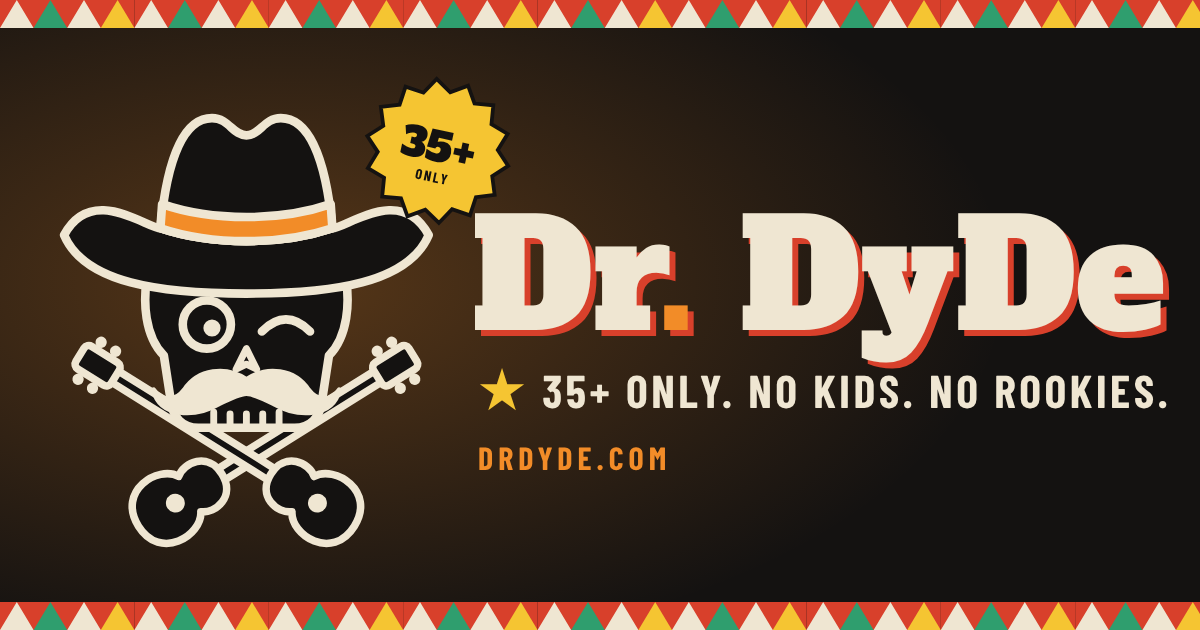
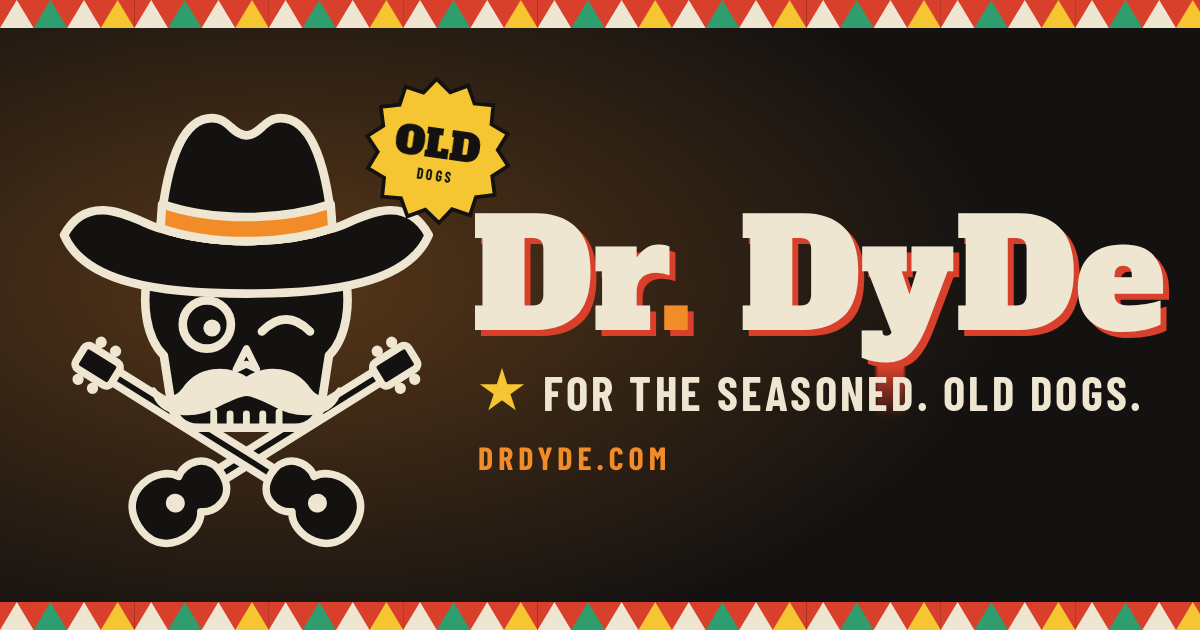
Remove age marks: for the seasoned / old dogs

Changed region(s): [[0.4317, 0.573, 0.9867, 0.6635], [0.3083, 0.181, 0.4008, 0.3016]]

diff --git a/index.html b/index.html
@@ -3,8 +3,8 @@
 <head>
 <meta charset="utf-8">
 <meta name="viewport" content="width=device-width, initial-scale=1, viewport-fit=cover">
-<title>Dr. DyDe — Silent Comedy & Dark Humor, 35+ only</title>
-<meta name="description" content="Dr. DyDe: silent comedy and dark humor for grown-ups. A tough guy in leather, toys and a skeleton roommate. No words. 35+ only. Comedia muda y humor negro.">
+<title>Dr. DyDe — Silent Comedy & Dark Humor for Old Dogs</title>
+<meta name="description" content="Dr. DyDe: silent comedy and dark humor for the seasoned. A tough guy in leather, toys and a skeleton roommate. Old dogs, old heads. Comedia muda y humor negro.">
 <meta name="robots" content="index, follow">
 <link rel="sitemap" type="application/xml" href="/sitemap.xml">
 <meta name="theme-color" content="#141211">
@@ -33,7 +33,7 @@
    "@type": "ProfilePage",
    "@id": "https://drdyde.com/#page",
    "url": "https://drdyde.com/",
-   "name": "Dr. DyDe — Silent Comedy & Dark Humor, 35+ only",
+   "name": "Dr. DyDe — Silent Comedy & Dark Humor for Old Dogs",
    "isPartOf": {
     "@id": "https://drdyde.com/#website"
    },
@@ -51,7 +51,7 @@
     "Dr DyDe",
     "Doc"
    ],
-   "description": "Silent comedy and dark humor for grown-ups: a tough guy in leather, toys and a skeleton roommate. No words.",
+   "description": "Silent comedy and dark humor for the seasoned: a tough guy in leather, toys and a skeleton roommate. No words.",
    "url": "https://drdyde.com/",
    "image": "https://drdyde.com/og.png",
    "knowsAbout": [
@@ -75,7 +75,7 @@
 <meta property="og:type" content="website">
 <meta property="og:site_name" content="Dr. DyDe">
 <meta property="og:url" content="https://drdyde.com/">
-<meta property="og:title" content="Dr. DyDe — Silent comedy & dark humor. 35+ only.">
+<meta property="og:title" content="Dr. DyDe — Silent comedy & dark humor for old dogs.">
 <meta property="og:description" content="A tough guy in leather who sings, plays with toys and makes faces. No words. His roommate is a skeleton.">
 <meta property="og:image" content="https://drdyde.com/og.png">
 <meta property="og:image:width" content="1200">
@@ -84,7 +84,7 @@
 <meta property="og:locale" content="en_US">
 <meta property="og:locale:alternate" content="es_ES">
 <meta name="twitter:card" content="summary_large_image">
-<meta name="twitter:title" content="Dr. DyDe — Silent comedy & dark humor. 35+ only.">
+<meta name="twitter:title" content="Dr. DyDe — Silent comedy & dark humor for old dogs.">
 <meta name="twitter:description" content="A tough guy in leather who sings, plays with toys and makes faces. No words. His roommate is a skeleton.">
 <meta name="twitter:image" content="https://drdyde.com/og.png">
 
@@ -232,11 +232,11 @@
       <svg class="logo" viewBox="0 0 240 290" role="img" aria-label="Dr. DyDe logo: a winking skull in a cowboy hat with a moustache and crossed guitars"><use href="#logo"/></svg>
       <svg class="burst" viewBox="0 0 100 100" aria-hidden="true">
         <polygon fill="#f5c532" stroke="#141211" stroke-width="2.500" points="98.0,50.0 89.0,58.9 93.2,70.8 81.3,74.9 79.9,87.5 67.4,86.0 60.7,96.8 50.0,90.0 39.3,96.8 32.6,86.0 20.1,87.5 18.7,74.9 6.8,70.8 11.0,58.9 2.0,50.0 11.0,41.1 6.8,29.2 18.7,25.1 20.1,12.5 32.6,14.0 39.3,3.2 50.0,10.0 60.7,3.2 67.4,14.0 79.9,12.5 81.3,25.1 93.2,29.2 89.0,41.1"/>
-        <text x="50" y="57" text-anchor="middle" font-size="27" fill="#141211">35+</text>
-        <text x="50" y="71" text-anchor="middle" font-size="9.500" fill="#141211" style="font-family:'Barlow Condensed',Arial,sans-serif;font-weight:700;letter-spacing:.14em" data-i18n="only">ONLY</text>
+        <text x="50" y="57" text-anchor="middle" font-size="27" fill="#141211">OLD</text>
+        <text x="50" y="71" text-anchor="middle" font-size="9.500" fill="#141211" style="font-family:'Barlow Condensed',Arial,sans-serif;font-weight:700;letter-spacing:.14em" data-i18n="only">DOGS</text>
       </svg>
       <h1 class="slab">Dr<span class="dot">.</span> DyDe</h1>
-      <p class="tagline" data-i18n="tagline">35+ only. No kids. No rookies.</p>
+      <p class="tagline" data-i18n="tagline">For the seasoned. Old dogs. Old heads.</p>
     </section>
 
     <nav class="links" aria-label="Channels">
@@ -269,7 +269,7 @@
 
     <section class="about">
       <h2 class="slab" data-i18n="aboutTitle">Who is this guy?</h2>
-      <p data-i18n="about">Silent comedy and dark humor for grown-ups. A tough guy in leather who sings, plays with toys and makes faces. No words. His roommate is a skeleton. Don't ask.</p>
+      <p data-i18n="about">Silent comedy and dark humor for the seasoned. A tough guy in leather who sings, plays with toys and makes faces. No words. His roommate is a skeleton. Don't ask.</p>
       <div class="patches" aria-hidden="true">
         <span class="patch round" style="--p:var(--red)">13</span>
         <span class="patch" style="--p:var(--yellow)" data-i18n="p1">No words</span>
@@ -301,31 +301,31 @@
 var I18N = {
   en: {
     label: "EN",
-    title: "Dr. DyDe — Silent Comedy & Dark Humor, 35+ only",
-    tagline: "35+ only. No kids. No rookies.",
-    only: "ONLY",
+    title: "Dr. DyDe — Silent Comedy & Dark Humor for Old Dogs",
+    tagline: "For the seasoned. Old dogs. Old heads.",
+    only: "DOGS",
     yt: "Main stage",
     tt: "Short cuts",
     tg: "Full versions",
     photo: "What? 🧐",
     photoSub: "Doc is busy.",
     aboutTitle: "Who is this guy?",
-    about: "Silent comedy and dark humor for grown-ups. A tough guy in leather who sings, plays with toys and makes faces. No words. His roommate is a skeleton. Don\'t ask.",
+    about: "Silent comedy and dark humor for the seasoned. A tough guy in leather who sings, plays with toys and makes faces. No words. His roommate is a skeleton. Don\'t ask.",
     p1: "No words",
     p2: "Old school"
   },
   es: {
     label: "ES",
-    title: "Dr. DyDe — Comedia muda y humor negro, solo 35+",
-    tagline: "Solo 35+. Ni niños ni novatos.",
-    only: "SOLO",
+    title: "Dr. DyDe — Comedia muda y humor negro para perros viejos",
+    tagline: "Para curtidos. Perros viejos. Veteranos.",
+    only: "PERROS",
     yt: "Escenario principal",
     tt: "Cortes rápidos",
     tg: "Versiones completas",
     photo: "¿Qué? 🧐",
     photoSub: "El Doc está ocupado.",
     aboutTitle: "¿Quién es este tipo?",
-    about: "Comedia muda y humor negro para adultos. Un tipo duro vestido de cuero que canta, juega con juguetes y hace muecas. Sin palabras. Su compañero de piso es un esqueleto. No preguntes.",
+    about: "Comedia muda y humor negro para curtidos. Un tipo duro vestido de cuero que canta, juega con juguetes y hace muecas. Sin palabras. Su compañero de piso es un esqueleto. No preguntes.",
     p1: "Sin palabras",
     p2: "Vieja escuela"
   }
